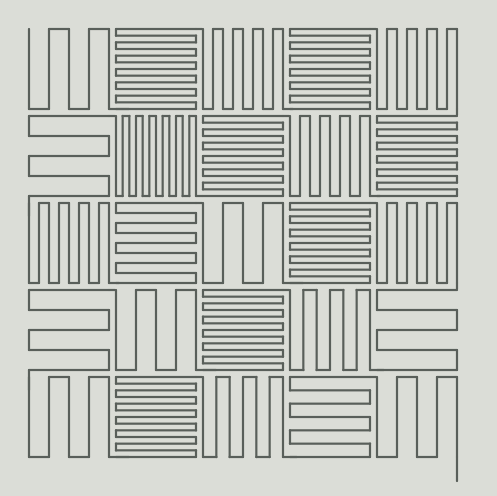
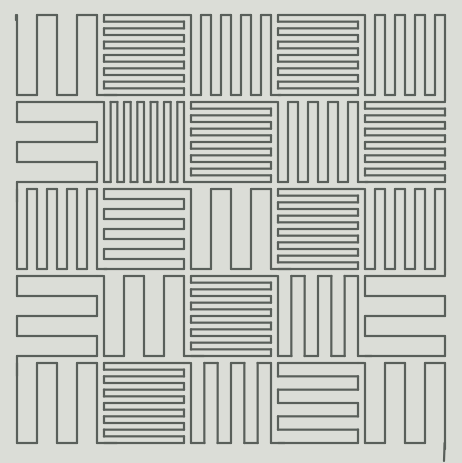
update

diff --git a/vera_molnár.js b/vera_molnár.js
@@ -2,7 +2,7 @@ MARGIN_X = 30;
 MARGIN_Y = 30;
 
 function setup() {
-  createCanvas(800, 800);
+  createCanvas(500, 500);
 }
 
 function bars(row_idx, col_idx, orientation, count) {
@@ -33,8 +33,21 @@ function bars(row_idx, col_idx, orientation, count) {
         line(LEFT_POS + cube_y * (i + 1), TOP, LEFT_POS + cube_y * i, TOP);
       }
     }
-
     line(LEFT_POS + cube_y * limit, TOP, LEFT_POS + cube_y * limit, BOTTOM);
+
+    if (row_idx == 4 && col_idx == 4) {
+      line(
+        LEFT_POS + cube_y * limit - 0.4,
+        BOTTOM,
+        LEFT_POS + cube_y * limit - 1.0,
+        BOTTOM + JOIN * 3
+      );
+    }
+
+    if (row_idx == 0 && col_idx == 0) {
+      line(LEFT_POS - 1, TOP, LEFT_POS - 1, TOP + 5);
+    }
+
     if (col_idx != 4) {
       line(
         LEFT_POS + cube_y * (limit + 1),
@@ -102,7 +115,7 @@ BAR_SIDE = function(count) {
 };
 
 function draw() {
-  background(219, 221,215);
+  background(219, 221, 215);
   strokeWeight(2.2);
 
   grid = [
@@ -119,5 +132,5 @@ function draw() {
       fn(row, col);
     }
   }
-  stroke(89,95,90);
+  stroke(89, 95, 90);
 }
